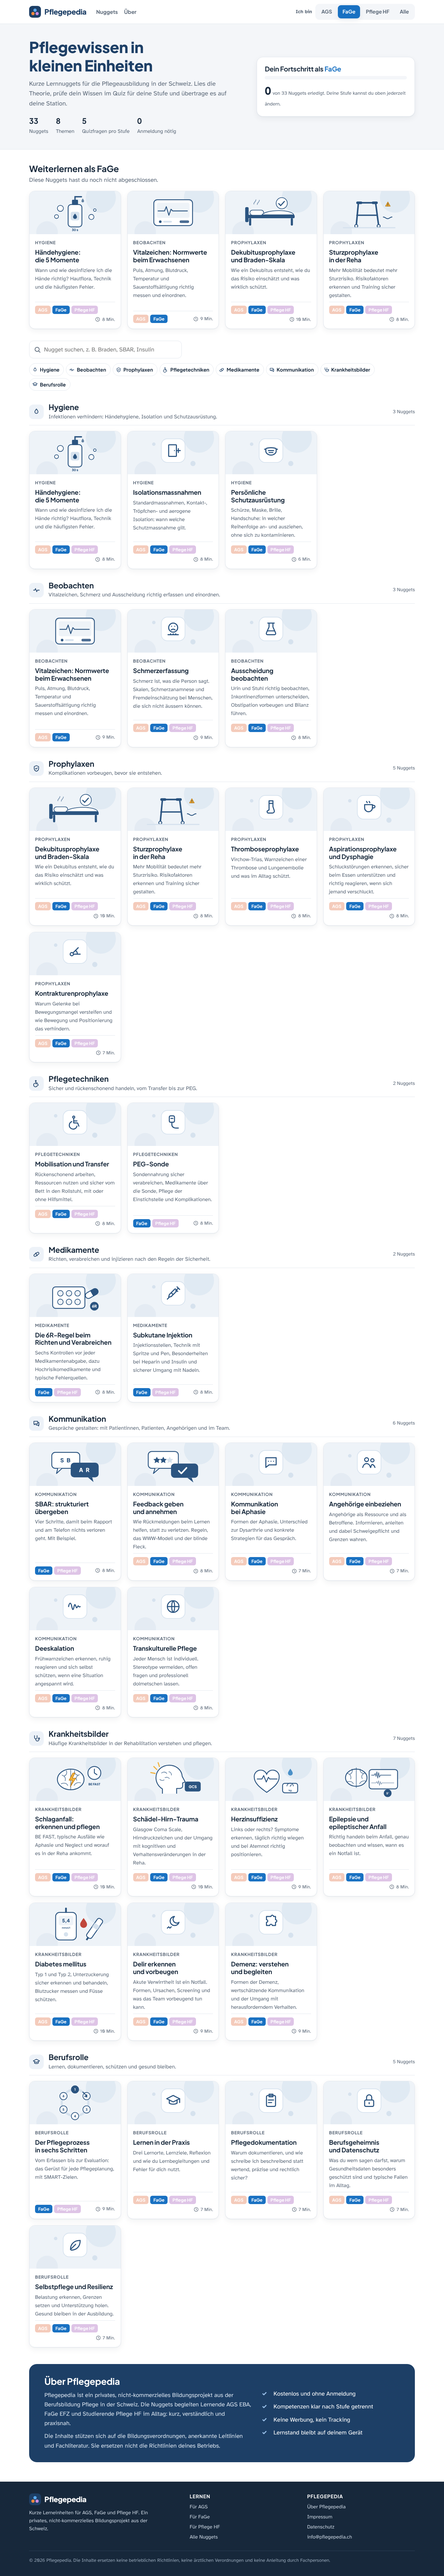
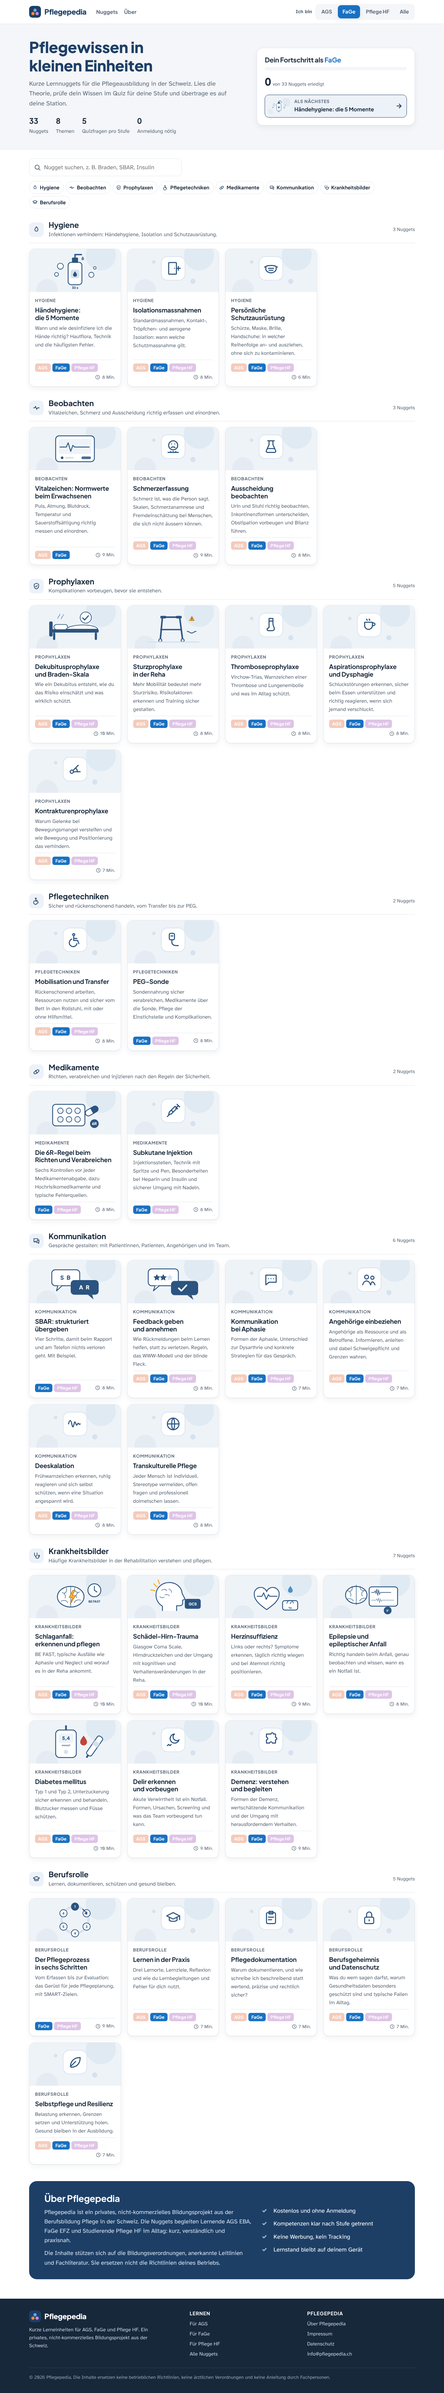
Weiterlernen ersetzt durch «Als Nächstes» im Fortschritt
Claude-Session: https://claude.ai/code/session_012TsK6CkhwQAYS7VPjgyFnT

diff --git a/index.html b/index.html
@@ -231,6 +231,14 @@ section.block { padding: 40px 0 8px; }
 .mini small { display: block; color: var(--muted); font-weight: 400; font-size: 13px; }
 .src { font-size: 14px; color: var(--muted); margin: 0; }
 
+.mine .next { margin-top: 14px; display: grid; grid-template-columns: 64px 1fr auto; gap: 12px; align-items: center; text-decoration: none; border: 1px solid var(--line); border-radius: 12px; padding: 8px 12px 8px 8px; }
+.mine .next:hover { border-color: var(--brand); background: var(--brand-2); }
+.mine .next .art { width: 64px; height: 46px; border-radius: 8px; overflow: hidden; position: relative; }
+.mine .next .art svg { position: absolute; inset: 0; width: 100%; height: 100%; }
+.mine .next small { display: block; font-size: 12.5px; text-transform: uppercase; letter-spacing: .06em; font-weight: 700; color: var(--muted); font-family: var(--display); }
+.mine .next b { font-family: var(--display); font-size: 15.5px; line-height: 1.3; }
+.mine .next .go { font-size: 20px; color: var(--brand); font-weight: 700; }
+.mine .alldone { margin: 12px 0 0; font-weight: 700; color: var(--ok); }
 footer { background: var(--ink); color: #c9d4e0; font-size: 14.5px; }
 footer .wrap { padding-top: 34px; padding-bottom: 34px; display: grid; grid-template-columns: 1.4fr 1fr 1fr; gap: 28px; }
 footer .logo { color: #fff; }
@@ -2577,7 +2585,8 @@ function renderHeroBox() {
     const p = pool(), d = p.filter(n => isDone(n, state.level)).length, pct = p.length ? Math.round(d / p.length * 100) : 0;
     box.innerHTML = `<div class="choose mine"><h2>Dein Fortschritt als <span class="lvtext ${state.level}">${LEVEL_LABEL[state.level]}</span></h2>
       <div class="bar"><i style="width:${pct}%;background:${LEVEL_COLOR[state.level]}"></i></div>
-      <span class="big">${d}</span> <small>von ${p.length} Nuggets erledigt. Deine Stufe kannst du oben jederzeit ändern.</small></div>`;
+      <span class="big">${d}</span> <small>von ${p.length} Nuggets erledigt</small>
+      ${(() => { const nx = p.find(n => !isDone(n, state.level)); return nx ? `<a class="next" href="#${nx.id}"><span class="art">${art(nx)}</span><span><small>Als Nächstes</small><b>${esc(nx.title)}</b></span><span class="go">→</span></a>` : `<p class="alldone">Alle Nuggets erledigt. Stark!</p>`; })()}</div>`;
   }
 }
 
@@ -2607,7 +2616,7 @@ function renderList() {
     <div class="grid">${ns.map(card).join("")}</div></section>`).join("");
 }
 
-function refreshHome() { renderHeroBox(); renderReco(); renderList(); }
+function refreshHome() { renderHeroBox(); renderList(); }
 
 function renderHome(scrollTo) {
   $("#app").innerHTML = `
@@ -2620,7 +2629,6 @@ function renderHome(scrollTo) {
     <div id="herobox"></div>
   </div></section>
   <div class="wrap">
-    <div id="reco"></div>
     <div class="toolbar"><label for="search" style="position:absolute;left:-9999px">Suchen</label><input id="search" type="search" placeholder="Nugget suchen, z. B. Braden, SBAR, Insulin" value="${esc(state.q)}"><div class="jump" id="jump"></div></div>
     <div id="list"></div>
     <section class="about" id="ueber">
@@ -2630,7 +2638,7 @@ function renderHome(scrollTo) {
       <ul><li>Kostenlos und ohne Anmeldung</li><li>Kompetenzen klar nach Stufe getrennt</li><li>Keine Werbung, kein Tracking</li><li>Lernstand bleibt auf deinem Gerät</li></ul>
     </section>
   </div>`;
-  $("#search").addEventListener("input", e => { state.q = e.target.value; renderReco(); renderList(); });
+  $("#search").addEventListener("input", e => { state.q = e.target.value; renderList(); });
   refreshHome();
   if (scrollTo) setTimeout(() => { const el = document.getElementById(scrollTo); if (el) el.scrollIntoView(); }, 30);
 }
